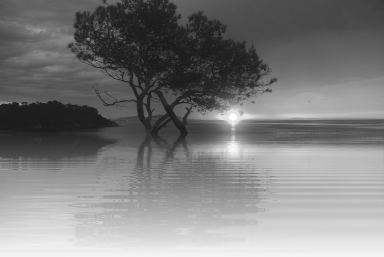
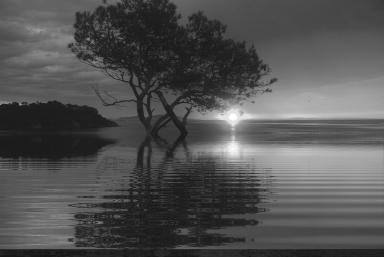
allow making an image opaque

diff --git a/src/main.cpp b/src/main.cpp
@@ -4,11 +4,14 @@
 int main() {
     const std::string filename = "examples/sunset.png";
     const std::string outputFilename = "examples/sunset.example.png";
+    const std::string opaqueOutputFilename = "examples/sunset.opaque.png";
     const std::string monochromeOutputFilename = "examples/sunset.monochrome.png";
     const std::string invertedOutputFilename = "examples/sunset.inverted.png";
 
     ImageHandler imageHandler = ImageHandler(filename);
     imageHandler.encodePng(outputFilename);
+    imageHandler.makeOpaque();
+    imageHandler.encodePng(opaqueOutputFilename);
     imageHandler.convertToMonochrome();
     imageHandler.encodePng(monochromeOutputFilename);
     imageHandler.invertImage();

diff --git a/src/imageHandler.cpp b/src/imageHandler.cpp
@@ -51,7 +51,16 @@ void ImageHandler::invertImage() {
     image = resultImage;
 }
 
-// make opaque
+void ImageHandler::makeOpaque() {
+    std::vector<std::uint8_t> resultImage;
+    for (auto i = 0; i < image.size(); i += 4) {
+        resultImage.push_back(image[i]);
+        resultImage.push_back(image[i + 1]);
+        resultImage.push_back(image[i + 2]);
+        resultImage.push_back(255);
+    }
+    image = resultImage;
+}
 
 // mean blur
 

diff --git a/src/imageHandler.hpp b/src/imageHandler.hpp
@@ -25,6 +25,8 @@ public:
 
     void invertImage();
 
+    void makeOpaque();
+
 private:
     std::vector<std::uint8_t> image;
     std::uint32_t width = 0;
